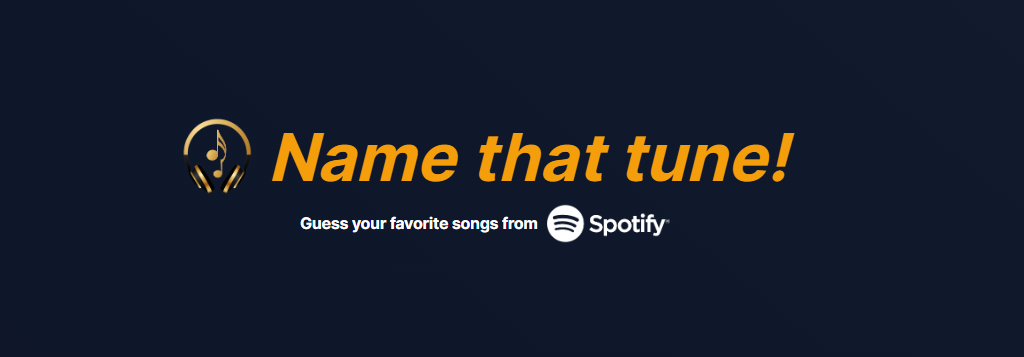
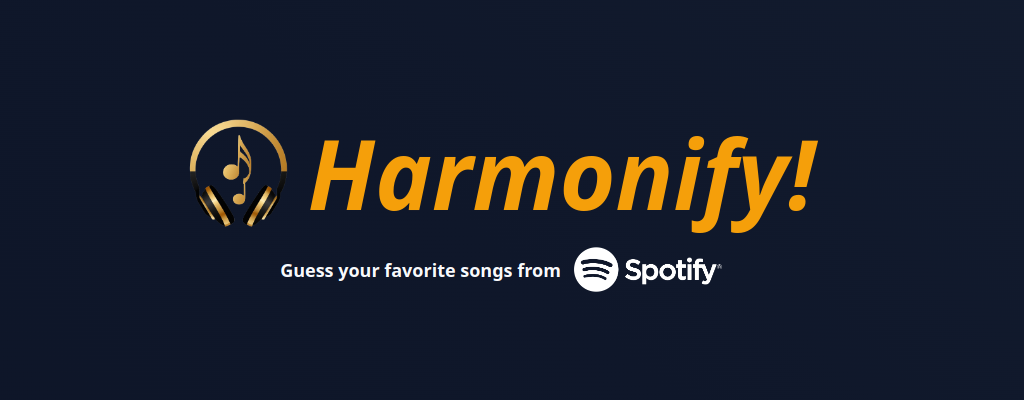
📝 Update README

Changed region(s): [[0.1562, 0.2773, 0.8125, 0.5854], [0.25, 0.5546, 0.7188, 0.7395]]

diff --git a/README.md b/README.md
@@ -1,8 +1,7 @@
-![Name that tune](./public/baner.png)
+![Harmonify](./public/baner.png)
 
-![Vercel](https://vercelbadge.vercel.app/api/marcinskic/name-that-tune)
-![License](https://img.shields.io/github/license/marcinskic/name-that-tune.svg)
-![Release](https://img.shields.io/github/release/marcinskic/name-that-tune.svg)
+![License](https://img.shields.io/github/license/kaczkadevteam/harmonify.svg)
+![Release](https://img.shields.io/github/release/kaczkadevteam/harmonify.svg)
 
 ## Description
 
@@ -38,6 +37,11 @@ The app, unfortunately, will never leave development mode due to Spotify's ToS (
 
 ### Used technologies
 
-[<img align="left" width="26" height="26" alt="Next.js" src="https://api.iconify.design/logos:nextjs-icon.svg" style="padding: 0 20px 16px 0">](https://nextjs.org 'Next.js')
-[<img align="left" width="26" height="26" alt="Typescript" src="https://api.iconify.design/devicon:typescript.svg" style="padding: 0 20px 16px 0">](https://www.typescriptlang.org 'Typescript')
-[<img align="left" width="26" height="26" alt="Sass" src="https://api.iconify.design/devicon:sass.svg" style="padding: 0 20px 16px 0">](https://sass-lang.com 'Sass')
+[<img align="left" width="26" height="26" alt="Vue.js" src="https://api.iconify.design/devicon:vuejs.svg" style="padding: 0 20px 16px 0"/>](https://vuejs.org 'Vue.js')
+[<img align="left" width="26" height="26" alt="VueUse" src="https://api.iconify.design/logos:vueuse.svg" style="padding: 0 20px 16px 0"/>](https://vueuse.org 'VueUse')
+[<img align="left" width="26" height="26" alt="Pinia" src="https://api.iconify.design/logos:pinia.svg" style="padding: 0 20px 16px 0"/>](https://pinia.vuejs.org 'Pinia')
+[<img align="left" width="26" height="26" alt="Typescript" src="https://api.iconify.design/devicon:typescript.svg" style="padding: 0 20px 16px 0"/>](https://www.typescriptlang.org 'Typescript')
+[<img align="left" width="26" height="26" alt="shadcn-vue" src="https://api.iconify.design/simple-icons:shadcnui.svg?color=%2341b883" style="padding: 0 20px 16px 0"/>](https://www.shadcn-vue.com 'shadcn-vue')
+[<img align="left" width="26" height="26" alt="TailwindCSS" src="https://api.iconify.design/devicon:tailwindcss.svg" style="padding: 0 20px 16px 0"/>](https://tailwindcss.com 'TailwindCSS')
+[<img align="left" width="26" height="26" alt="Vite" src="https://api.iconify.design/devicon:vitejs.svg" style="padding: 0 20px 16px 0"/>](https://vitejs.dev/ 'Vite')
+[<img align="left" width="26" height="26" alt="Vitest" src="https://api.iconify.design/devicon:vitest.svg" style="padding: 0 20px 16px 0"/>](https://vitest.dev 'Vitest')
